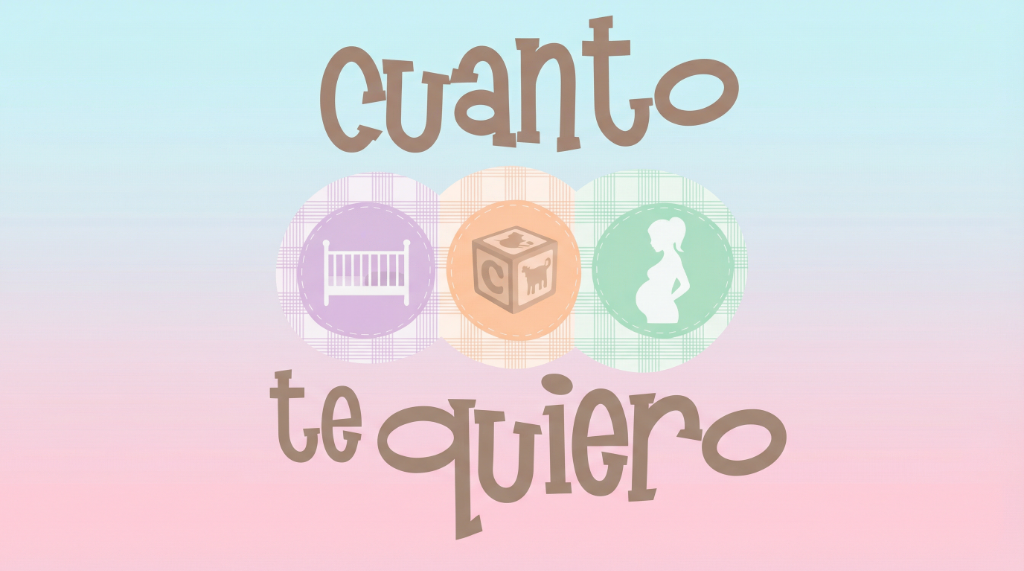
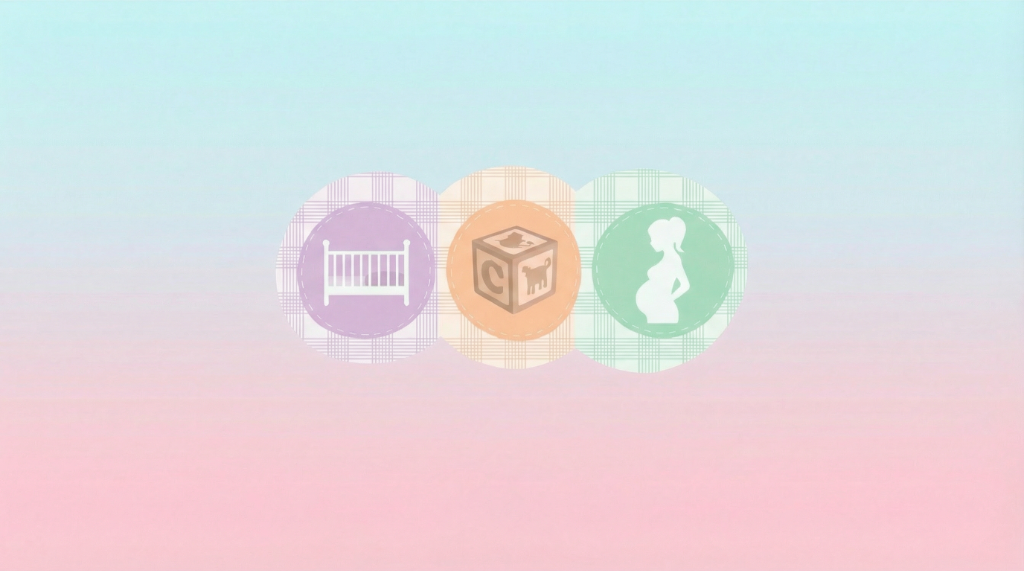
Refactor Hero design with SVG brand text, optimized opacity and fixed height

Changed region(s): [[0.25, 0.655, 0.7812, 0.9527], [0.3125, 0.0298, 0.7188, 0.268]]

diff --git a/src/app/globals.css b/src/app/globals.css
@@ -1,3 +1,5 @@
+@import url('https://fonts.googleapis.com/css2?family=Fredoka:wght@400;600;700&display=swap');
+
 :root {
     --background: #ffffff;
     --foreground: #171717;
@@ -26,6 +28,7 @@
 
     /* Fonts */
     --font-sans: system-ui, -apple-system, BlinkMacSystemFont, 'Segoe UI', Roboto, Oxygen, Ubuntu, Cantarell, 'Open Sans', 'Helvetica Neue', sans-serif;
+    --font-brand: 'Fredoka', system-ui, sans-serif;
 }
 
 * {
@@ -41,7 +44,7 @@ body {
     min-height: 100vh;
     display: flex;
     flex-direction: column;
-    background-image: linear-gradient(to bottom, var(--pastel-pink) 0%, var(--pastel-blue) 100%);
+    background: var(--pastel-pink);
 }
 
 .main-content {
@@ -76,30 +79,31 @@ a {
     flex-direction: column;
     gap: 3rem;
     padding: 1.5rem;
+    padding-top: 2rem;
     max-width: 80rem;
     margin: 0 auto;
 }
 
 @media (min-width: 768px) {
     .home-section {
-        padding: 3rem;
+        padding: 10rem;
     }
 }
 
 .hero-text-container {
     text-align: center;
-    padding: 2rem 0;
+    padding: 1rem;
 }
 
 .hero-title {
-    font-size: 3rem;
-    font-weight: 700;
+    font-size: 5rem;
+    font-weight: 600;
     color: var(--brand-brown);
     line-height: 1.25;
 }
 
 .hero-title .highlight {
-    color: #db2777;
+    color: #ec87b5;
     /* pink-600 */
 }
 
@@ -107,6 +111,52 @@ a {
     .hero-title {
         font-size: 4.5rem;
     }
+}
+
+.hero-brand {
+    position: absolute;
+    inset: 0;
+    z-index: 5;
+    pointer-events: none;
+
+    display: flex;
+    flex-direction: column;
+    align-items: center;
+    justify-content: center;
+    gap: 0;
+}
+
+/* Posicionamiento general */
+.hero-brand-top {
+    margin-bottom: -15rem;
+}
+
+.hero-brand-bottom {
+    margin-top: 30rem;
+    transform: translateY(150px);
+}
+
+/* Tipografía SVG compartida */
+.hero-brand-top svg text,
+.hero-brand-bottom svg text {
+    font-family: var(--font-brand);
+    fill: var(--brand-brown);
+    dominant-baseline: middle;
+    text-anchor: middle;
+}
+
+/* CUANTO (arriba) */
+.hero-brand-top svg text {
+    font-size: 64px;
+    font-weight: 600;
+    letter-spacing: 20px;
+}
+
+/* TE QUIERO (abajo) */
+.hero-brand-bottom svg text {
+    font-size: 64px;
+    font-weight: 600;
+    letter-spacing: 16px;
 }
 
 .hero-message {
@@ -121,7 +171,7 @@ a {
 
 .collections-container {
     background-color: var(--pastel-blue);
-    border: 4px solid var(--brand-brown);
+    border: 4px solid var(--brand-brown-light);
     border-radius: 1.5rem;
     padding: 2rem;
     box-shadow: 0 20px 25px -5px rgba(0, 0, 0, 0.1), 0 10px 10px -5px rgba(0, 0, 0, 0.04);
@@ -135,7 +185,7 @@ a {
 
 .products-container {
     background-color: var(--pastel-pink);
-    border: 4px solid var(--brand-brown);
+    border: 4px solid var(--border-soft);
     border-radius: 1.5rem;
     padding: 2rem;
     box-shadow: 0 20px 25px -5px rgba(0, 0, 0, 0.1), 0 10px 10px -5px rgba(0, 0, 0, 0.04);
@@ -232,11 +282,19 @@ a {
 }
 
 /* Hero Styles */
+.hero-wrapper {
+    width: 100%;
+    margin-bottom: 0rem;
+    margin-top: -40px;
+}
+
 .hero-container {
     position: relative;
     width: 100%;
-    height: clamp(340px, 50vh, 480px);
+    height: 700px;
+    z-index: 1;
     overflow: hidden;
+
 }
 
 .hero-container::after {
@@ -245,18 +303,20 @@ a {
     bottom: 0;
     left: 0;
     right: 0;
-    height: 60px;
+    height: 80px;
     background: linear-gradient(to bottom,
-            rgba(0, 0, 0, 0) 0%,
+            rgba(255, 228, 230, 0) 0%,
+            var(--pastel-pink) 70%,
             var(--pastel-pink) 100%);
     pointer-events: none;
     z-index: 2;
 }
 
+
+
 .hero-slide-wrapper {
-    position: relative;
-    width: 100%;
-    display: flex;
+    position: absolute;
+    inset: 0;
     z-index: 1;
 }
 
@@ -264,6 +324,7 @@ a {
     width: 100%;
     height: 100%;
     object-fit: cover;
+    object-position: center 30%;
 }
 
 .hero-nav-button {

diff --git a/src/components/home/Hero.tsx b/src/components/home/Hero.tsx
@@ -5,7 +5,7 @@ import Image from "next/image";
 import { ChevronLeft, ChevronRight } from "lucide-react";
 
 const slides = [
-    { id: 1, src: '/images/hero-main.png', alt: 'Cuanto Te Quiero - Colección Bebé' },
+    { id: 1, src: "/images/hero-main.png", alt: "Cuanto Te Quiero - Colección Bebé" },
 ];
 
 export default function Hero() {
@@ -43,7 +43,7 @@ export default function Hero() {
             onMouseEnter={() => setAutoplay(false)}
             onMouseLeave={() => setAutoplay(true)}
         >
-            {/* Carousel Container - Natural Aspect Ratio */}
+            {/* Imagen del hero */}
             <AnimatePresence mode="wait">
                 <motion.div
                     key={index}
@@ -66,7 +66,50 @@ export default function Hero() {
                 </motion.div>
             </AnimatePresence>
 
-            {/* Navigation Buttons - Hidden if only 1 slide */}
+            {/* MARCA */}
+            <div className="hero-brand">
+                {/* CUANTO */}
+                <div className="hero-brand-top">
+                    <svg viewBox="0 0 500 120" width="500" height="120">
+                        <path
+                            id="curve-top"
+                            d="M 50 100 Q 250 20 450 100"
+                            fill="transparent"
+                        />
+                        <text>
+                            <textPath
+                                href="#curve-top"
+                                startOffset="50%"
+                                textAnchor="middle"
+                            >
+                                CUANTO
+                            </textPath>
+                        </text>
+                    </svg>
+                </div>
+
+                {/* TE QUIERO */}
+                <div className="hero-brand-bottom">
+                    <svg viewBox="0 0 500 160" width="500" height="160">
+                        <path
+                            id="curve-bottom"
+                            d="M 50 40 Q 250 140 450 40"
+                            fill="transparent"
+                        />
+                        <text>
+                            <textPath
+                                href="#curve-bottom"
+                                startOffset="50%"
+                                textAnchor="middle"
+                            >
+                                TE QUIERO
+                            </textPath>
+                        </text>
+                    </svg>
+                </div>
+            </div>
+
+            {/* Navegación */}
             {slides.length > 1 && (
                 <>
                     <button
@@ -85,13 +128,13 @@ export default function Hero() {
                         <ChevronRight size={24} />
                     </button>
 
-                    {/* Dot Indicators */}
                     <div className="hero-dots-container">
                         {slides.map((_, slideIndex) => (
                             <motion.button
                                 key={slideIndex}
                                 onClick={() => goToSlide(slideIndex)}
-                                className={`hero-dot ${slideIndex === index ? 'active' : 'inactive'}`}
+                                className={`hero-dot ${slideIndex === index ? "active" : "inactive"
+                                    }`}
                                 aria-label={`Ir a slide ${slideIndex + 1}`}
                             />
                         ))}

diff --git a/src/app/page.tsx b/src/app/page.tsx
@@ -3,7 +3,9 @@ import Hero from "@/components/home/Hero";
 export default function Home() {
     return (
         <main className="min-h-screen">
-            <Hero />
+            <div className="hero-wrapper">
+                <Hero />
+            </div>
 
             <section className="home-section">
 
